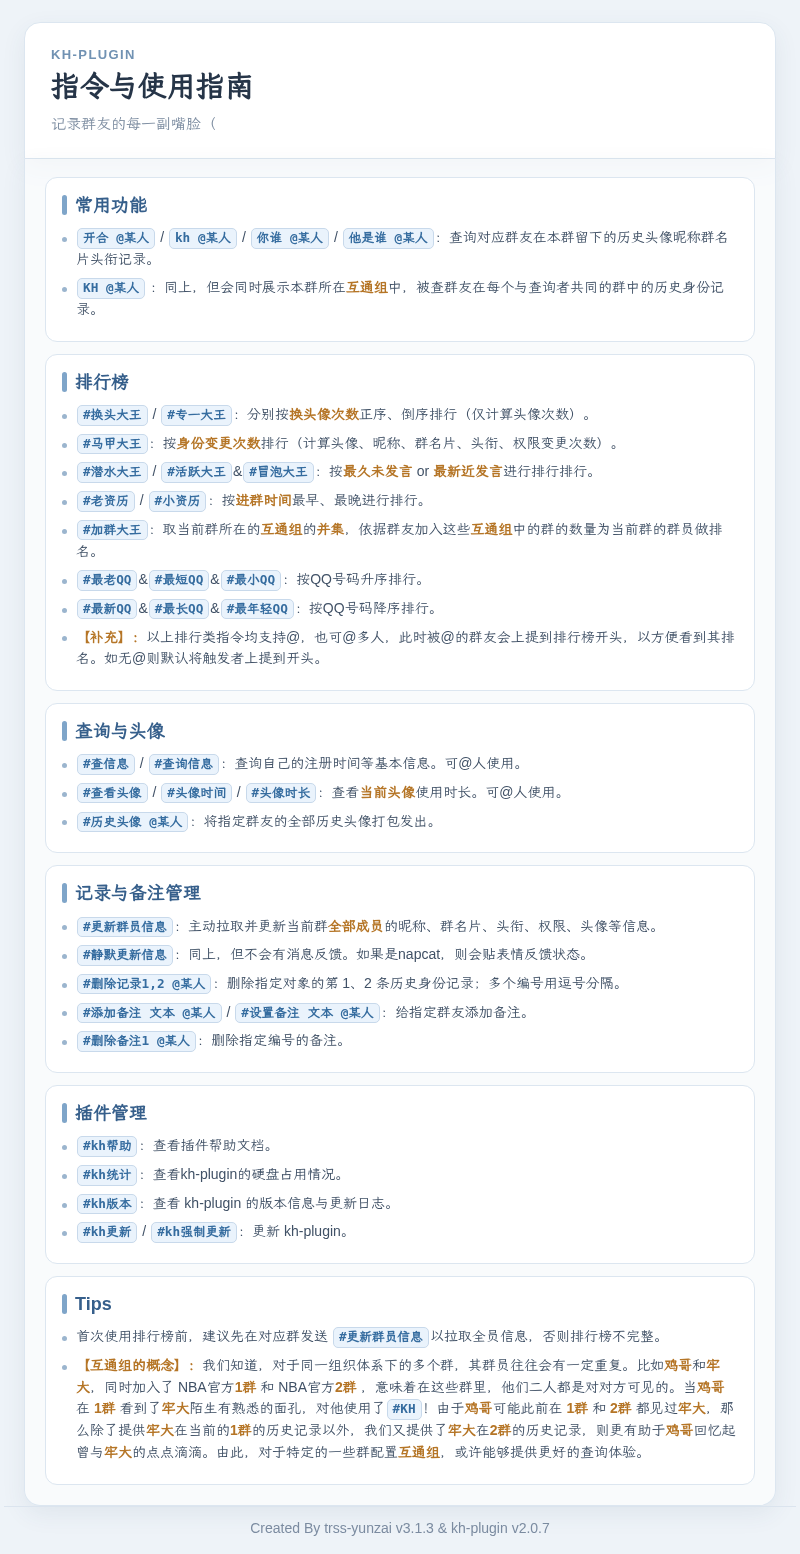
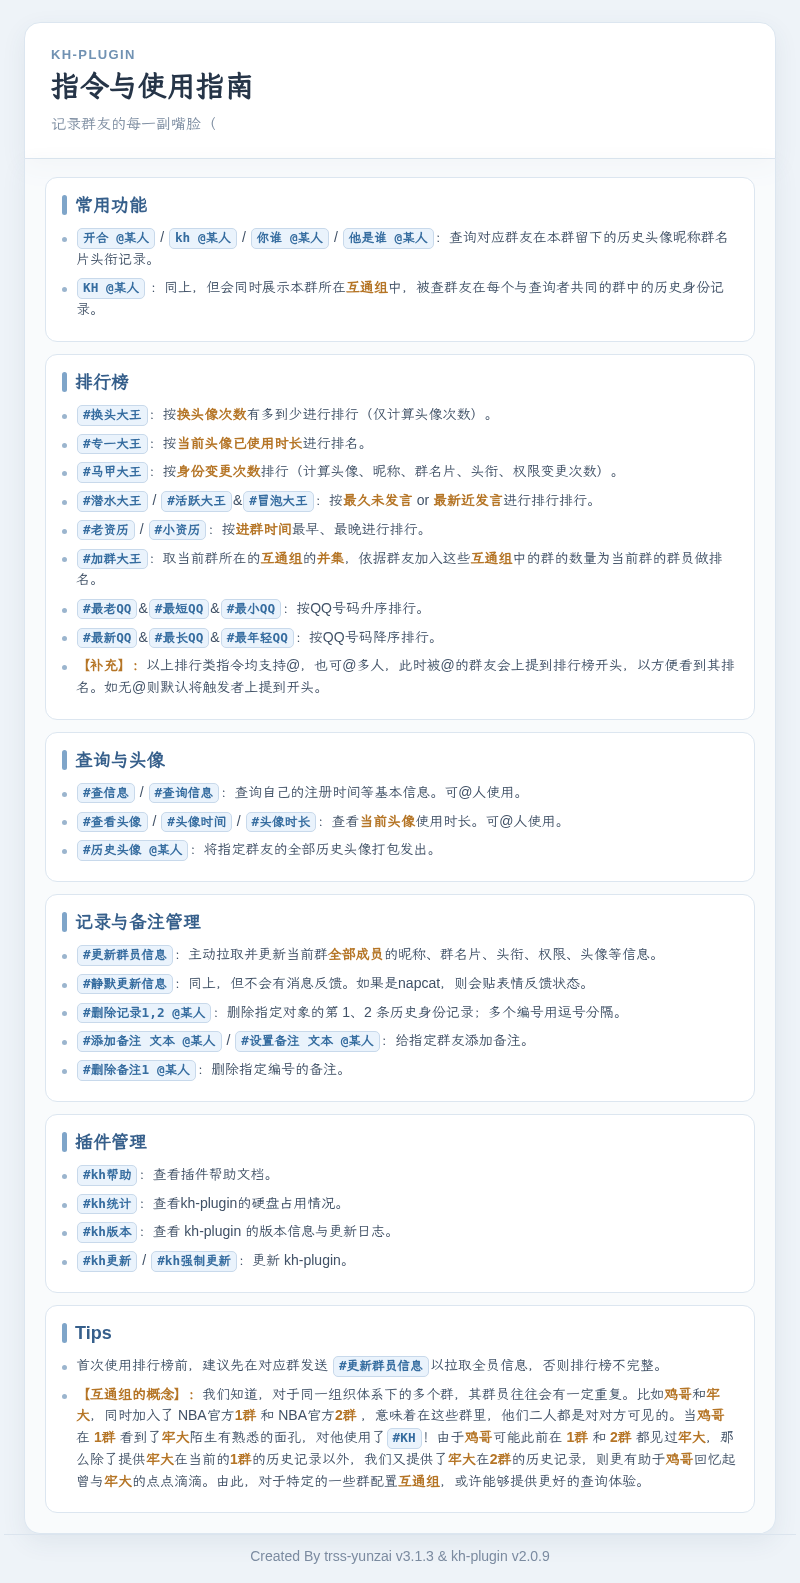
修复帮助图中 #专一大王 的描述文案错误

diff --git a/resources/help/help.md b/resources/help/help.md
@@ -2,7 +2,7 @@
  * @Author: 渔火Arcadia  https://github.com/yhArcadia
  * @Date: 2026-08-19 21:26:57
  * @LastEditors: 渔火Arcadia
- * @LastEditTime: 2026-08-25 15:52:03
+ * @LastEditTime: 2026-08-25 17:26:56
  * @FilePath: /kh-plugin/resources/help/help.md
  * @Description: kh插件帮助文档
  * 
@@ -16,7 +16,8 @@
 
 # 排行榜
 
-- `#换头大王` / `#专一大王`：分别按**换头像次数**正序、倒序排行（仅计算头像次数）。
+- `#换头大王`：按**换头像次数**有多到少进行排行（仅计算头像次数）。
+- `#专一大王`：按**当前头像已使用时长**进行排名。
 - `#马甲大王`：按**身份变更次数**排行（计算头像、昵称、群名片、头衔、权限变更次数）。
 - `#潜水大王` / `#活跃大王`&`#冒泡大王`：按**最久未发言** or **最新近发言**进行排行排行。
 - `#老资历` / `#小资历`：按**进群时间**最早、最晚进行排行。
